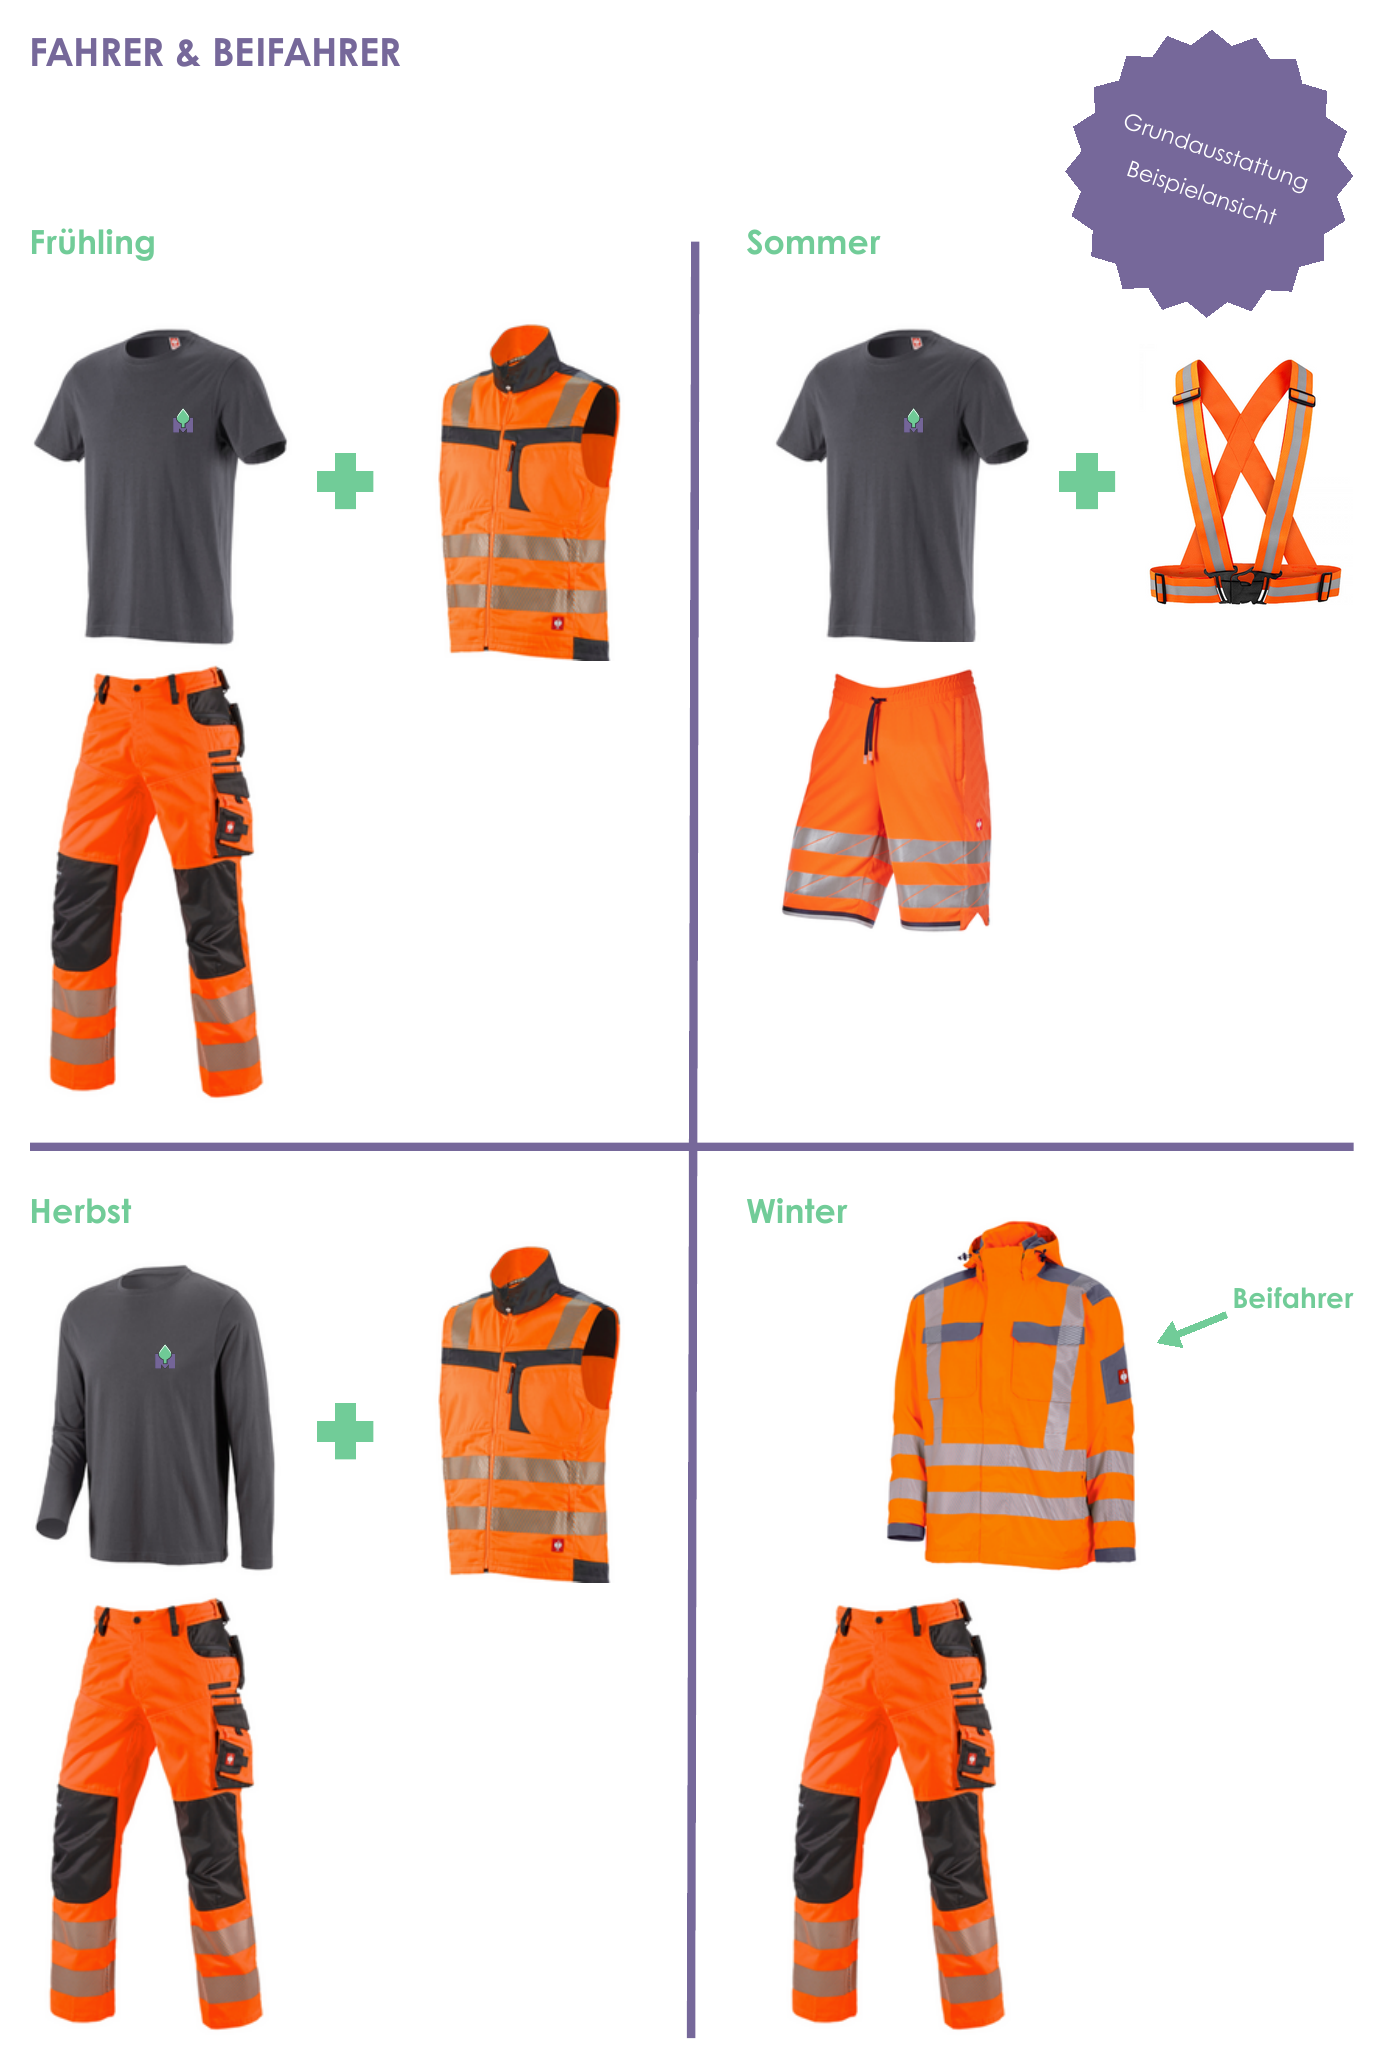
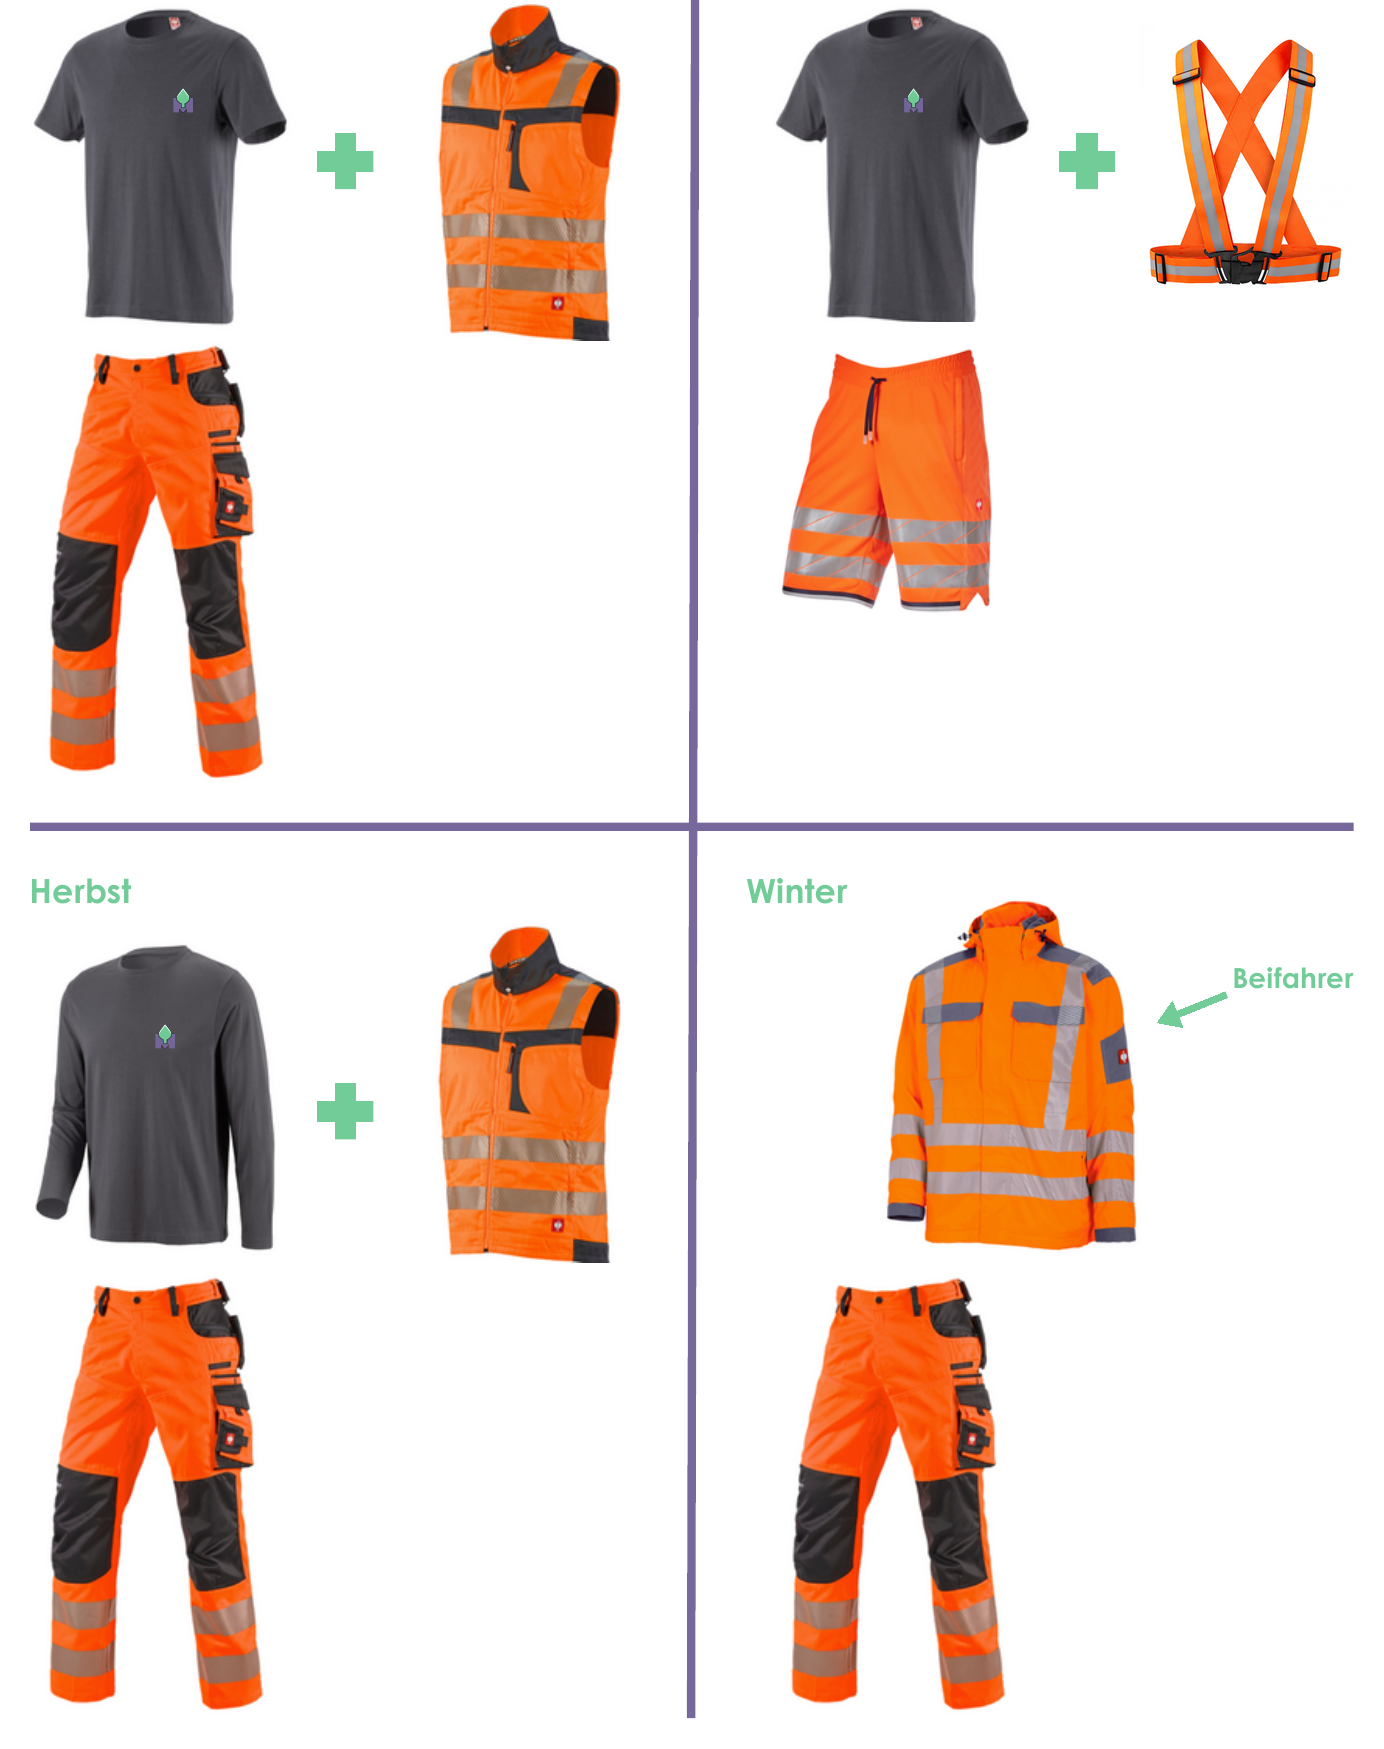
Split Fahrer/Beifahrer Grundausstattung to reflect their different obligations
The overview page showed one combined image for both roles, implying an
identical clothing obligation. Per the actual rule, only Beifahrer must wear
the full seasonal outfit; Fahrer only need a warning harness or vest when
exiting the vehicle. Cropped the misleading "FAHRER & BEIFAHRER" header out
of the image and added a separate text tile for Fahrer.

diff --git a/frontend/src/pages/employee/Grundausstattung.tsx b/frontend/src/pages/employee/Grundausstattung.tsx
@@ -1,11 +1,7 @@
 import { PageHeading } from "../../components/ui/PageHeading";
 import { Card } from "../../components/ui/Card";
 
-const GROUPS = [
-  {
-    title: "Fahrer & Beifahrer",
-    imageUrl: "/grundausstattung/fahrer-beifahrer.png",
-  },
+const IMAGE_GROUPS = [
   {
     title: "Instandhaltung & Reinigung / Laderfahrer & Anlagenbediener",
     imageUrl: "/grundausstattung/instandhaltung-laderfahrer.png",
@@ -22,7 +18,29 @@ export function Grundausstattung() {
       </p>
 
       <div className="flex flex-col gap-6">
-        {GROUPS.map((group) => (
+        <Card className="p-5">
+          <h2 className="mb-2 text-lg font-bold text-primary-500">Fahrer</h2>
+          <p className="text-sm text-slate-700">
+            Für Fahrer besteht keine Pflicht zur vollen Saison-Ausstattung wie unten bei Beifahrer
+            gezeigt. Beim Verlassen des Fahrzeugs im öffentlichen Straßenverkehr genügt mindestens
+            ein Warnschutzgurt oder eine Warnschutzweste.
+          </p>
+        </Card>
+
+        <Card className="overflow-hidden">
+          <h2 className="p-5 pb-0 text-lg font-bold text-primary-500">Beifahrer</h2>
+          <div className="grid grid-cols-2 px-5 pt-4">
+            <span className="text-lg font-bold text-secondary-600">Frühling</span>
+            <span className="text-lg font-bold text-secondary-600">Sommer</span>
+          </div>
+          <img
+            src="/grundausstattung/fahrer-beifahrer.png"
+            alt="Grundausstattung Beifahrer"
+            className="w-full"
+          />
+        </Card>
+
+        {IMAGE_GROUPS.map((group) => (
           <Card key={group.title} className="overflow-hidden">
             <img src={group.imageUrl} alt={group.title} className="w-full" />
           </Card>
